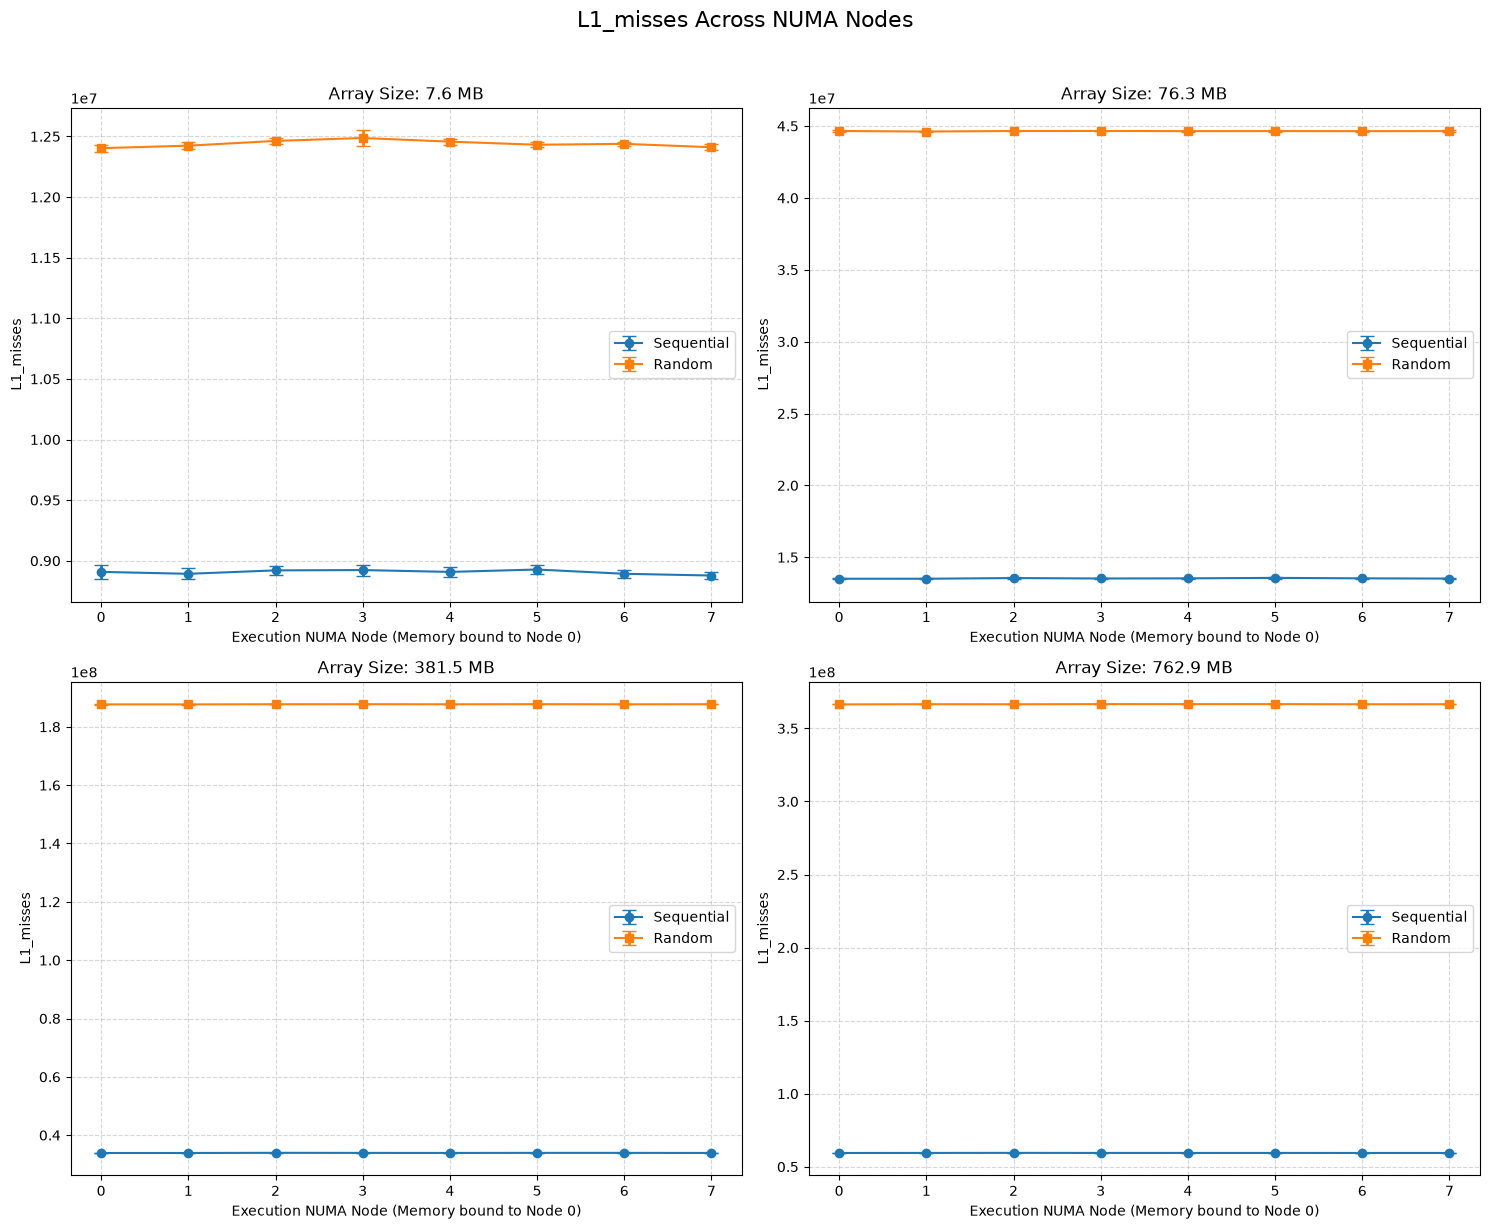
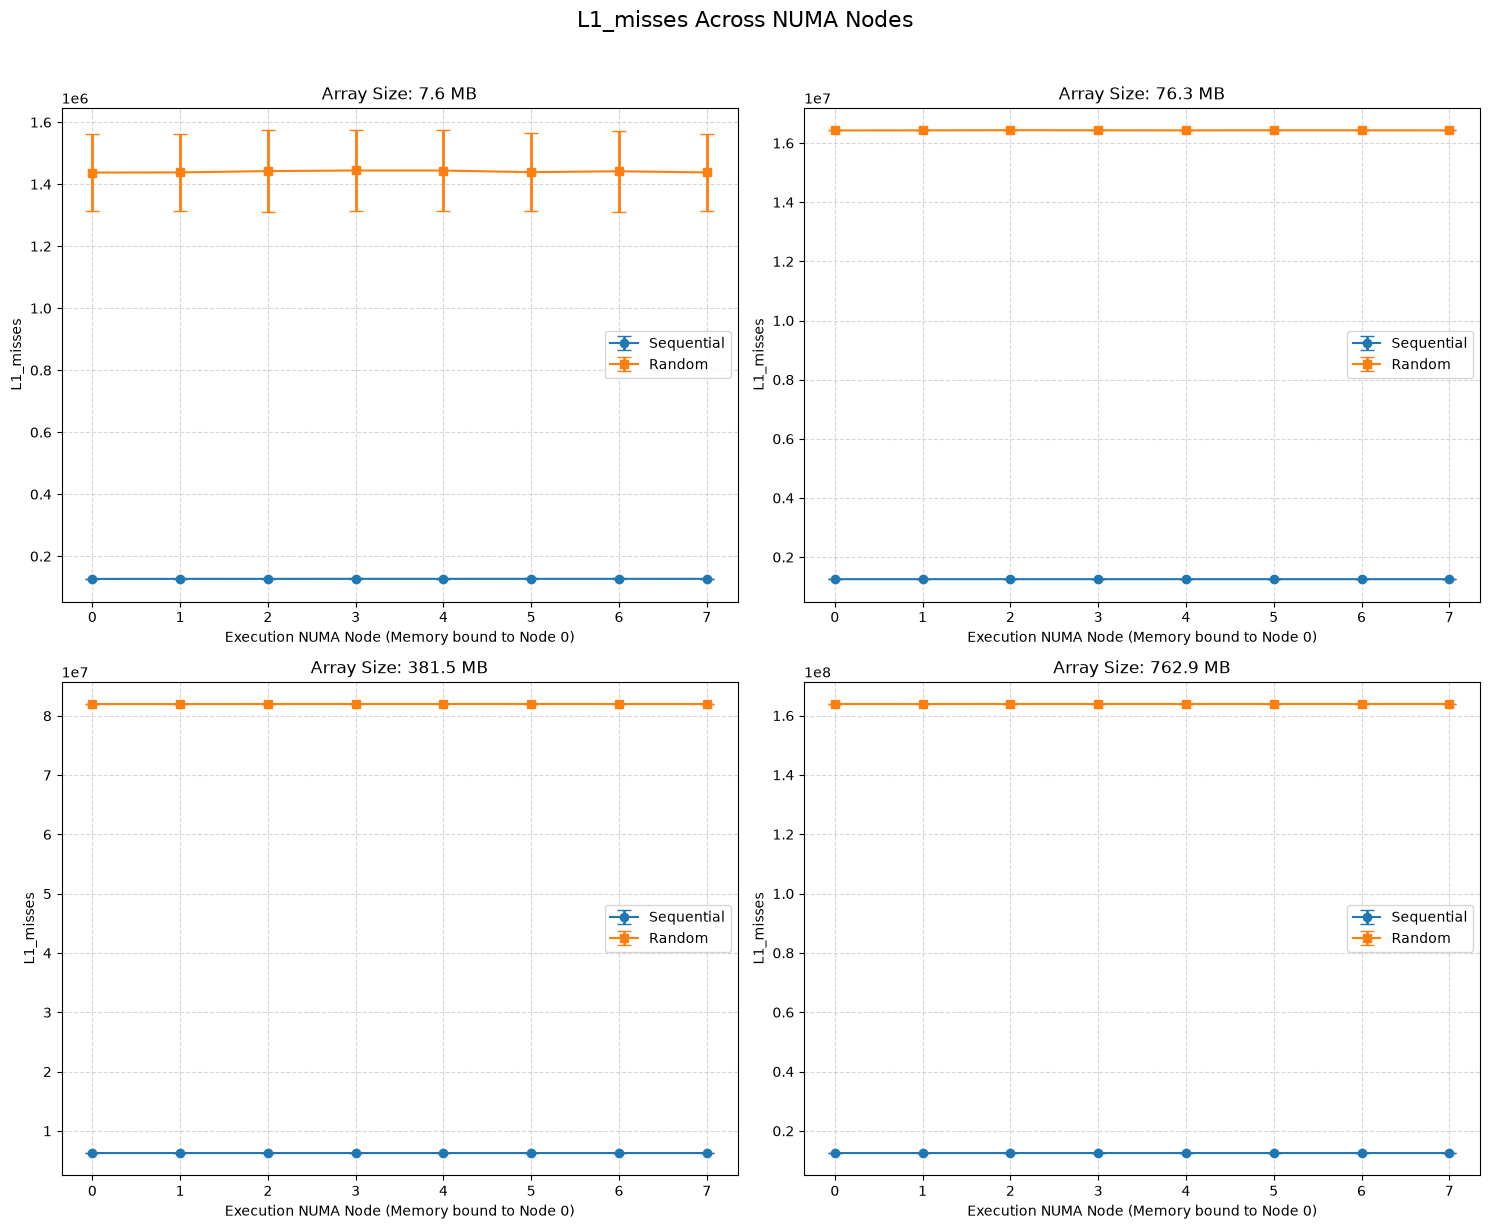
update

diff --git a/seq_vs_random/numa_experiment/np_worker.py b/seq_vs_random/numa_experiment/np_worker.py
@@ -22,21 +22,30 @@ def main():
 
     times = []
 
-    for _ in range(args.cycles):
-        os.kill(PARENT_PID, signal.SIGUSR1)
-        sleep(0.5)
-
-        t0 = perf_counter()
-        if args.mode == "rand":
+    if args.mode == "rand":
+        for _ in range(args.cycles):
+            os.kill(PARENT_PID, signal.SIGUSR1)
+            sleep(0.5)
+            
+            t0 = perf_counter()
             _ = np.sum(x[indices])
-        else:
+            t1 = perf_counter()
+            
+            os.kill(PARENT_PID, signal.SIGUSR2)
+            sleep(0.5)
+            times.append(t1 - t0)
+    else:
+        for _ in range(args.cycles):
+            os.kill(PARENT_PID, signal.SIGUSR1)
+            sleep(0.5)
+            
+            t0 = perf_counter()
             _ = np.sum(x)
-        t1 = perf_counter()
-
-        os.kill(PARENT_PID, signal.SIGUSR2)
-        sleep(0.5)
-
-        times.append(t1 - t0)
+            t1 = perf_counter()
+            
+            os.kill(PARENT_PID, signal.SIGUSR2)
+            sleep(0.5)
+            times.append(t1 - t0)
 
     print(f"PRINT: Time_s: {','.join([str(t) for t in times])}", flush=True)
     sys.exit(0)

diff --git a/seq_vs_random/numa_experiment/np_orchestrator.py b/seq_vs_random/numa_experiment/np_orchestrator.py
@@ -67,7 +67,7 @@ def run_experiment():
 
                 cmd = [
                     "numactl", f"--cpunodebind={node}", "--membind=0",
-                    sys.executable, "np_worker.py", 
+                    "python3.14", "np_worker.py", 
                     "--size", str(size), 
                     "--mode", mode, 
                     "--cycles", str(benchmark_cycles)
@@ -133,6 +133,7 @@ def run_experiment():
                     "size_MB": mb_size,
                     "mode": mode,
                     "time_s_mean": np.mean(time_array) if time_array else 0,
+                    "time_s_std": np.std(time_array) if time_array else 0,
                     "bandwidth_MB_s_mean": np.mean(run_bws) if run_bws else 0,
                     "bandwidth_MB_s_std": np.std(run_bws) if run_bws else 0,
                     "IPC_mean": np.mean(run_ipcs) if run_ipcs else 0,